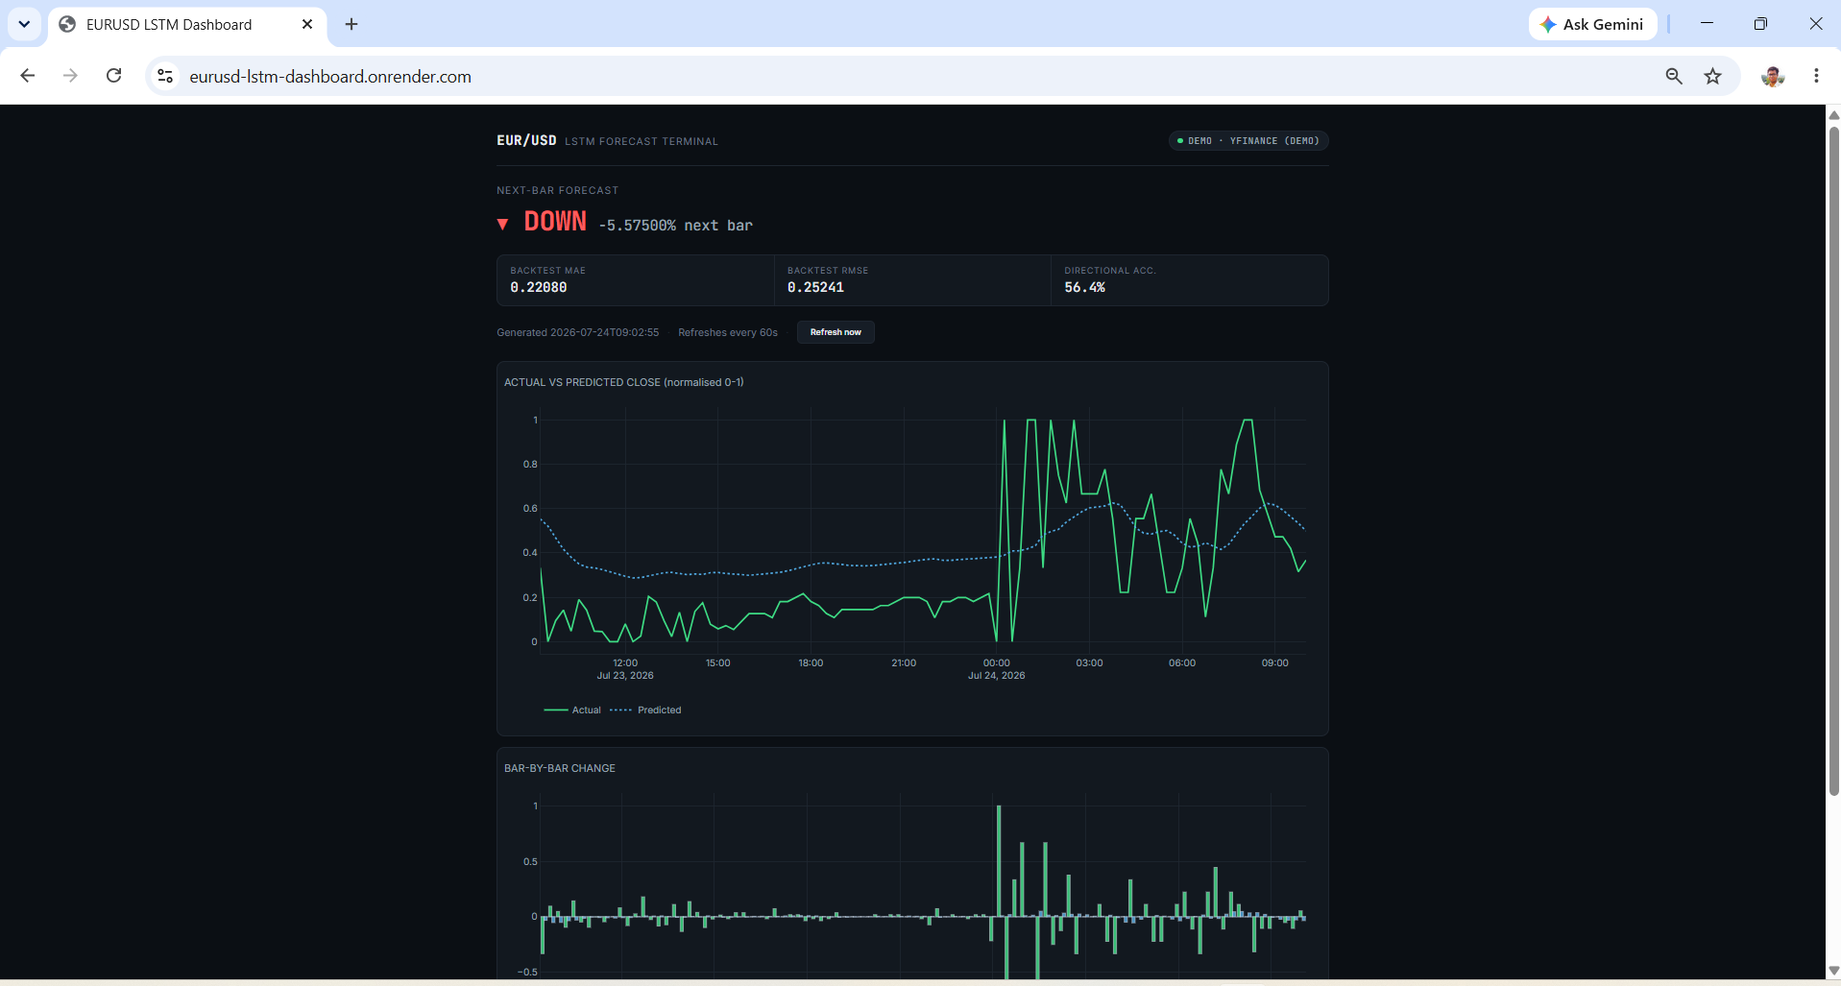
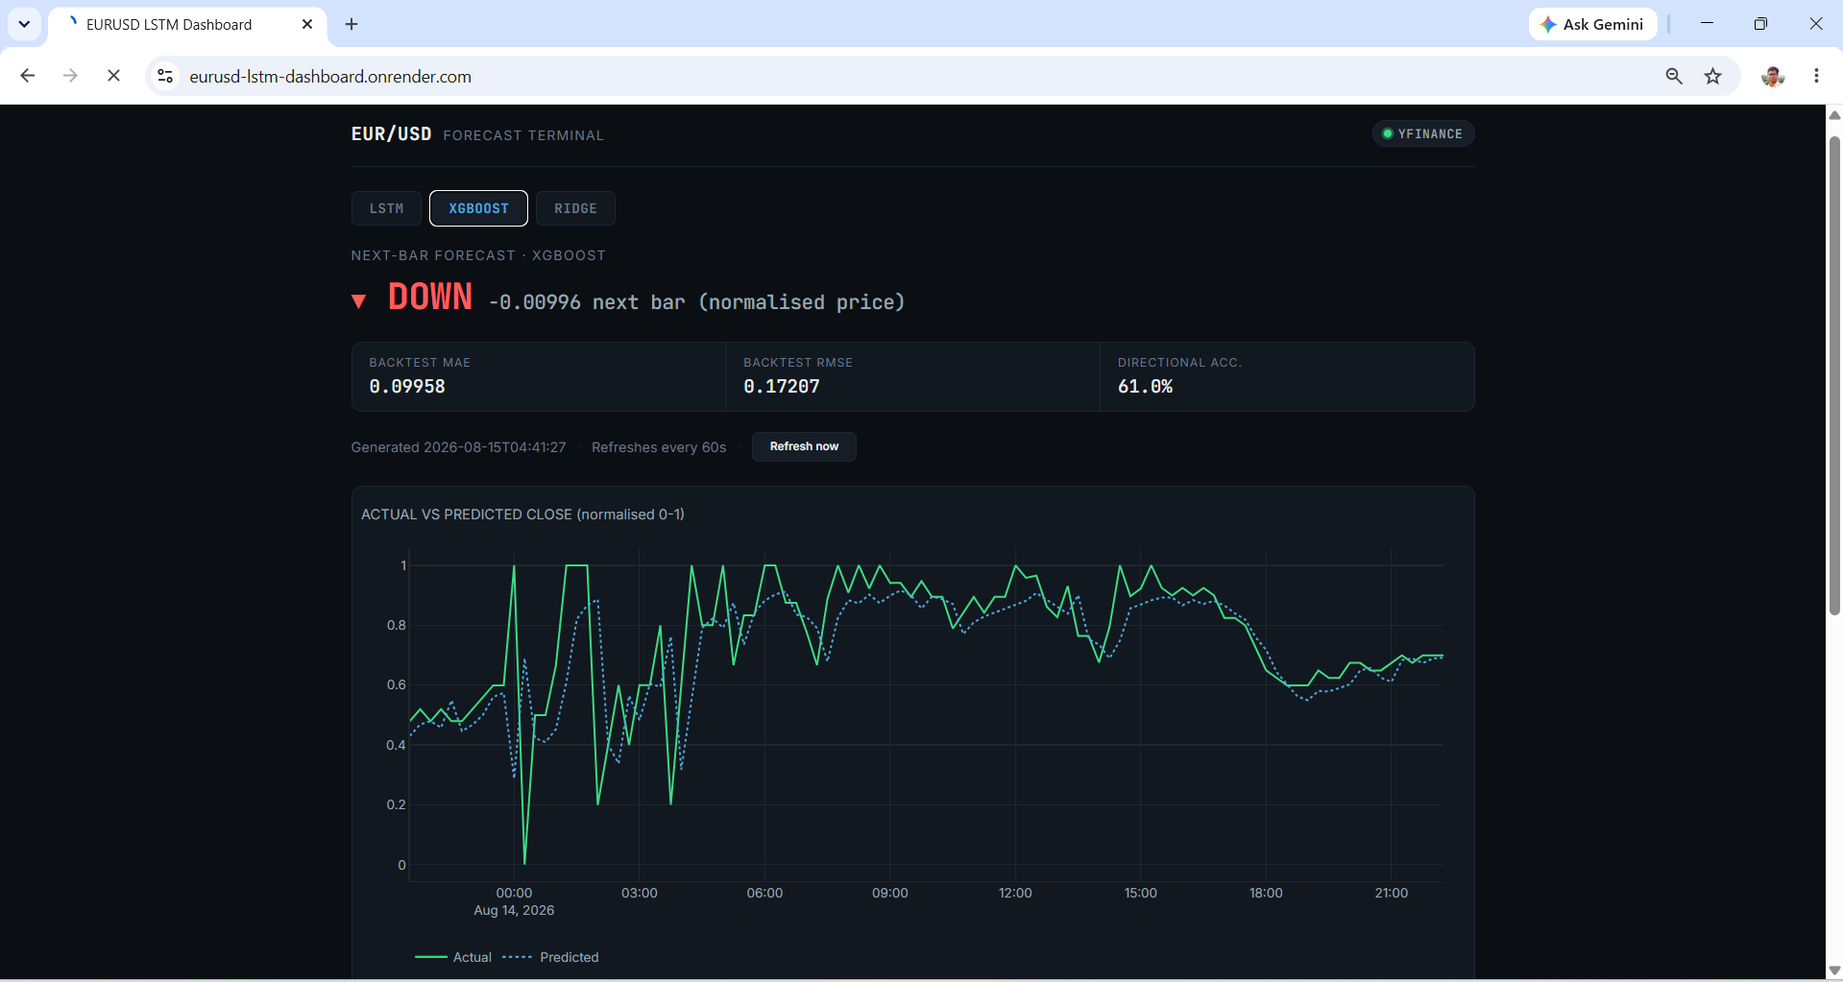
Update README with 3-model comparison

diff --git a/README.md b/README.md
@@ -1,43 +1,45 @@
-# EURUSD LSTM Market Prediction Dashboard
+# EURUSD Forecasting Dashboard — LSTM vs. XGBoost vs. Ridge Regression
 
-A forex forecasting dashboard that trains an LSTM neural network (PyTorch) on EURUSD 15-minute candles and serves live-updating predictions through a Flask + Plotly web UI.
+A forex forecasting dashboard that trains and compares three fundamentally different machine learning approaches — a recurrent neural network (LSTM), gradient-boosted trees (XGBoost), and regularized linear regression (Ridge) — on the same EUR/USD 15-minute candle data, and serves live-updating predictions from all three through a Flask + Plotly web dashboard with a model comparison toggle.
 
-**[Live demo](https://eurusd-lstm-dashboard.onrender.com)** — hosted on Render's free tier, so it sleeps after 15 minutes of inactivity and the first load can take 10-30 seconds to wake up.
+[**Live demo**](https://eurusd-lstm-dashboard.onrender.com) — hosted on Render's free tier, so it sleeps after 15 minutes of inactivity and the first load can take 10-30 seconds to wake up.
 
-![Dashboard screenshot](docs/screenshot.png)
+!\[Dashboard screenshot](docs/screenshot.png)
 
 > No broker account needed. The dashboard runs entirely on free historical data from Yahoo Finance — no login, no install, works anywhere.
 
----
+\---
 
 ## What this project demonstrates
 
-- Training a sequence model (LSTM) on real-world time-series data with a proper chronological train/validation split (no shuffling, since that would leak the future into training).
-- Evaluating the model against a naive baseline ("predict next = last observed close") rather than reporting accuracy in isolation.
-- Serving the trained model behind a Flask dashboard with background job scheduling, health checks, and Docker packaging.
-- Structuring the ML code (`lstm_core.py`) as unit-tested, reusable functions rather than a single monolithic script.
+* Comparing three genuinely different modeling approaches — a sequence-aware neural network, a non-sequential tree ensemble, and a plain linear model — on identical data, identical chronological train/validation splits, and identical evaluation functions, so the comparison is actually fair rather than apples-to-oranges.
+* Evaluating every model against a naive baseline ("predict next = last observed close") rather than reporting accuracy in isolation — a model that can't beat that baseline hasn't demonstrated it learned anything useful about price movement specifically.
+* Treating a negative or inconclusive result as worth reporting, not hiding — an earlier, more complex LSTM variant was tested and didn't outperform the simpler one, and that's documented here rather than left out.
+* Serving all three trained models behind a single Flask dashboard with background job scheduling, health checks, and Docker packaging, with each model toggle degrading gracefully if that model hasn't been trained yet rather than crashing.
+* Structuring the ML code as unit-tested, reusable functions (`lstm\_core.py`, `xgb\_core.py`, `ridge\_core.py`) instead of one monolithic script, with 28 tests covering the parts most likely to have a subtle correctness bug.
 
 ## Features
 
-- LSTM model forecasts the next 15-min normalized close price
-- Directional forecast (up/down) with backtest accuracy shown alongside it
-- Interactive Plotly charts: true vs. predicted price, and bar-by-bar point change
-- Real market data via yfinance
-- Background scheduler refreshes predictions on an interval, independent of page views
-- Dockerized, with a `render.yaml` blueprint for deployment
+* Three trained models — LSTM, XGBoost, and Ridge Regression — forecasting the next 15-min normalized close price from the same input data
+* A model comparison toggle on the dashboard: switch between all three instantly, client-side, with no page reload, since all three predictions are already computed in the background before anyone clicks anything
+* Directional forecast (up/down) with backtest MAE, RMSE, and directional accuracy shown for whichever model is selected
+* Interactive Plotly charts per model: true vs. predicted price, and bar-by-bar point change
+* Real market data via yfinance
+* Background scheduler refreshes all three models' predictions on an interval, independent of page views
+* Dockerized, with a `render.yaml` blueprint for deployment
 
 ## Tech Stack
 
-| Layer | Tech |
-|---|---|
-| Model | PyTorch (single-layer LSTM) |
-| Backend | Python / Flask + APScheduler |
-| Data | yfinance (Yahoo Finance) |
-| Frontend | Plotly (server-rendered, embedded via Jinja2) |
-| Testing | pytest |
-| Container | Docker / gunicorn |
+|Layer|Tech|
+|-|-|
+|Models|PyTorch (LSTM) · XGBoost (gradient-boosted trees) · NumPy (Ridge regression, closed-form solution, no ML library needed)|
+|Backend|Python / Flask + APScheduler|
+|Data|yfinance (Yahoo Finance)|
+|Frontend|Plotly (server-rendered, embedded via Jinja2), vanilla JS for the model toggle|
+|Testing|pytest|
+|Container|Docker / gunicorn|
 
----
+\---
 
 ## Quickstart
 
@@ -49,7 +51,7 @@ pip install -r requirements.txt
 python app.py
 ```
 
-Open **http://127.0.0.1:5001**. The first prediction runs automatically in the background within a few seconds; refresh the page or click **Refresh Now**.
+Open **http://127.0.0.1:5001**. The LSTM prediction runs automatically in the background within a few seconds; refresh the page or click **Refresh Now**. `lstm\_model.pth` ships pretrained, so this works immediately — the XGBoost and Ridge tabs will show "not trained yet" until you run their training scripts below, which is expected, not an error.
 
 ## Run with Docker
 
@@ -60,35 +62,51 @@ docker run -p 5001:5001 eurusd-dashboard
 
 Open **http://localhost:5001**.
 
----
+\---
 
 ## Training
 
-`lstm_model.pth` ships pretrained.
+Each model has its own training script, but all three share the exact same data pipeline, feature construction, and chronological train/validation split — reused directly from `train\_model.py` rather than reimplemented — so results are directly comparable.
+
+### LSTM
 
 ```bash
-python train_model.py --epochs 40 --period 60d
+python train\_model.py --epochs 40 --period 60d
 ```
 
-This fetches ~60 days of EURUSD 15-min history via yfinance (Yahoo's cap for that interval), builds sliding-window sequences, splits them chronologically (train on the earlier portion, validate on the later portion), trains the LSTM, and writes:
+Fetches \~60 days of EURUSD 15-min history via yfinance (Yahoo's cap for that interval), builds sliding-window sequences, splits them chronologically, trains the LSTM, and writes `lstm\_model.pth`, `training\_report.json`, and `loss\_curve.png`.
 
-- `lstm_model.pth` — updated weights
-- `training_report.json` — full metrics + loss history
-- `loss_curve.png` — train/validation loss plot
+### XGBoost (optional)
+
+```bash
+python train\_xgboost\_model.py --period 60d
+```
+
+Same windows as the LSTM, flattened from `(60, 5)` into a 300-length feature vector, since XGBoost has no built-in concept of sequence order. Uses XGBoost's native `Booster` API rather than the sklearn-style wrapper — `XGBRegressor.save\_model()` calls into an internal scikit-learn API that changed in scikit-learn 1.6+, breaking on any reasonably current environment across every version I tested. The native API sidesteps that entirely. Writes `xgboost\_model.json` and `xgboost\_training\_report.json`.
+
+### Ridge Regression (optional)
+
+```bash
+python train\_ridge\_model.py --period 60d
+```
+
+Same flattened windows as XGBoost, fit with a closed-form solution (no training loop, no epochs — solved directly via `np.linalg.solve`). The script searches over several regularization strengths (`alpha`) and picks whichever gives the lowest validation MAE, logging train and validation metrics at every alpha tried, not just the winner. 300 flattened features on a few thousand rows is enough to make the underlying matrix nearly singular without regularization, so the fit function explicitly checks for non-finite weights and raises a clear error rather than silently returning garbage. Writes `ridge\_model.json` and `ridge\_training\_report.json`.
+
+Both XGBoost and Ridge are optional in the sense that the dashboard works fine without them — their toggle buttons just show "not trained yet" until you run the corresponding script, and the background job logs that it's skipping them rather than failing.
 
 ## Evaluation
 
-The model is evaluated on directional accuracy (did it correctly call up vs. down?) and MAE/RMSE on the normalized close price, alongside a naive baseline. Forex at 15-minute resolution is close to a random walk, so beating the naive baseline by any real margin is a meaningful result.
+Every model is evaluated on directional accuracy (did it correctly call up vs. down?) and MAE/RMSE on the normalized close price, alongside a naive baseline. Forex at 15-minute resolution is close to a random walk, so beating the naive baseline by any real margin is a meaningful result.
 
-| Metric | LSTM | Naive baseline |
-|---|---|---|
-| Directional accuracy | 59.7% | n/a — a flat/no-change predictor never calls a direction, so this metric doesn't apply to it. The LSTM's 59.7% should be judged against 50% (random chance). |
-| MAE (normalized price) | 0.191 | 0.109 |
-| RMSE (normalized price) | 0.230 | 0.179 |
+|Metric|LSTM|XGBoost|Ridge|Naive baseline|
+|-|-|-|-|-|
+|Directional accuracy|59.7%|60.3%|*62.0%*|n/a — a flat/no-change predictor never calls a direction, so this metric doesn't apply to it. Judge every model's accuracy against 50% (random chance) instead.|
+|MAE (normalized price)|0.191|0.109|*0.124*|0.109|
+|RMSE (normalized price)|0.230|0.162|*0.185*|0.179|
 
-From a training run on ~5,600 bars of EURUSD 15-min history (July 2026). Across several training runs during development, directional accuracy ranged 57-60%, and MAE/RMSE stayed consistently above the naive baseline.
+From actual training runs on real EURUSD 15-min history. XGBoost's RMSE was the first result in this project to actually beat the naive baseline, not just tie or lose to it — its MAE ties the baseline exactly. The LSTM does not beat the naive baseline on raw regression error, which is a real and expected result for short-horizon forex (see Modeling Experiments below), though it does show a modest, reproducible edge over random chance on directional accuracy. Numbers shift somewhat between runs since yfinance only serves the trailing \~60 days at 15-min resolution, so the exact window fetched changes day to day — directional accuracy for the LSTM has ranged 57-60% across separate runs.
 
-The LSTM does not beat the naive baseline on raw regression error (MAE/RMSE) — a real and expected result for short-horizon forex (see Modeling Experiments below). It does show a modest, reproducible edge over random chance on directional accuracy, which is the more relevant metric for a directional forecast. This should be read as a research finding, not a trading edge — see Limitations.
+This should be read as a research finding, not a trading edge — see Limitations.
 
 ## Testing
 
@@ -97,71 +115,103 @@ pip install pytest
 pytest tests/ -v
 ```
 
-Covers the normalization math (including the flat-price division-by-zero edge case), feature-frame construction, and both metrics functions, using synthetic OHLC data.
+28 tests across three files. `test\_lstm\_core.py` covers the normalization math (including the flat-price division-by-zero edge case) and feature-frame construction. `test\_xgb\_core.py` covers the window-flattening logic, including a test that the flatten shape at inference time matches the shape at training time — a silent mismatch there wouldn't raise an error, it would just make predictions wrong. `test\_ridge\_core.py` includes a test that the fitted weights exactly match a hand-derived closed-form solution, which is the strongest kind of correctness check available for this model — not just "does it run," but "is the math actually right." All using synthetic OHLC data, no network access or pretrained weights required.
 
----
+\---
 
 ## Model Architecture
 
-| Parameter | Value |
-|---|---|
-| Type | Single-layer LSTM |
-| Input features | 5 (`time_token`, `norm_open`, `norm_high`, `norm_low`, `norm_close`) |
-| Hidden size | 100 |
-| Output | 1 (predicted normalized close) |
-| Sequence length | 60 bars (15 hours of M15 data) |
-| Backtest window | 100 steps |
+### LSTM
+
+|Parameter|Value|
+|-|-|
+|Type|Single-layer LSTM|
+|Input features|5 (`time\_token`, `norm\_open`, `norm\_high`, `norm\_low`, `norm\_close`)|
+|Hidden size|100|
+|Output|1 (predicted normalized close)|
+|Sequence length|60 bars (15 hours of M15 data)|
+|Backtest window|100 steps|
 
 Prices are normalized with a rolling daily min-max (expanding window, resets at midnight) so the model sees relative intraday movement rather than raw pip values. Using an expanding rather than a full-day window avoids leaking the day's future high/low into earlier predictions. A time-of-day token (seconds since midnight / 86400) is appended as a fifth feature.
 
 Training uses gradient clipping (max norm 1.0), `ReduceLROnPlateau` learning-rate scheduling, and early stopping on validation loss (patience 8 epochs, best weights restored).
 
+### XGBoost
+
+Trained on the identical 5-feature windows as the LSTM, flattened into a 300-length vector. Shallow trees (`max\_depth=4`) and early stopping against the validation set guard against overfitting — the training script explicitly logs the train/validation MAE gap as a direct check, not just the validation number in isolation.
+
+### Ridge Regression
+
+The same flattened 300-feature windows, fit with L2-regularized linear regression. No iterative training — the closed-form solution is computed once:
+
+```
+w = (XᵀX + αI)⁻¹ Xᵀy
+```
+
+with the feature matrix and target mean-centered first so the intercept isn't itself penalized. `alpha` controls how strongly large weights are discouraged; the training script searches several values and keeps whichever generalizes best to the validation set. This is the simplest model in the comparison — the point of including it is to test whether the problem needs nonlinearity at all, or whether even a straight line captures most of the learnable signal.
+
 ## Modeling Experiments
 
-A more elaborate version of this model was built and evaluated before settling on the architecture above.
+A more elaborate version of the LSTM was built and evaluated before settling on the architecture above.
 
 I expanded the 5 input features to 8, adding momentum, rolling volatility, and a cyclical sin/cos time-of-day encoding instead of a raw linear token, plus a deeper 2-layer LSTM with dropout. On identical train/validation splits, this did not outperform the simpler model — validation MAE and RMSE were both modestly worse (0.20 vs 0.164 MAE), and directional accuracy was statistically indistinguishable (56-58% across three separate training runs). While building it I also found and fixed a data-leakage bug (a feature scaler was initially fit on the full dataset instead of the training split only); fixing it barely moved the results, which confirmed the leak wasn't the cause of the underperformance — the added complexity itself just didn't help.
 
-Neither version beat the naive baseline on raw regression error. I kept the simpler architecture and documented the experiment here rather than leaving it out.
+Neither version beat the naive baseline on raw regression error. I kept the simpler LSTM architecture and documented the experiment here rather than leaving it out.
+
+Adding XGBoost as a comparison model later reframed this finding: a much simpler, non-sequential tree model slightly outperformed the LSTM on this same data, which raises the real question of whether explicit sequence-awareness is earning its added complexity here at all, or whether the 15-minute forex signal is better captured by feature interactions than by temporal order. That's a more interesting and more honest conclusion than either model's number in isolation would suggest.
 
 ## Project Structure
 
 ```
 eurusd-lstm-dashboard/
-├── app.py                      # Flask backend + background prediction scheduler
-├── lstm_core.py                # Model, data fetching, preprocessing, inference, metrics (unit-tested)
-├── LSTM_model_prediction.py    # Thin CLI wrapper around lstm_core (one-off prediction run)
-├── train_model.py              # Training script: fetch data, train, evaluate vs. baseline
-├── lstm_model.pth              # Trained model weights
+├── app.py                      # Flask backend + background scheduler + model comparison toggle
+├── lstm\_core.py                # LSTM model, data fetching, preprocessing, inference, metrics (unit-tested)
+├── xgb\_core.py                 # XGBoost inference — reuses lstm\_core's data pipeline and metrics
+├── ridge\_core.py               # Ridge regression fit/inference — closed-form, pure NumPy
+├── LSTM\_model\_prediction.py    # Thin CLI wrapper around lstm\_core (one-off prediction run)
+├── train\_model.py              # LSTM training: fetch data, train, evaluate vs. baseline
+├── train\_xgboost\_model.py      # XGBoost training: same data/split, different model
+├── train\_ridge\_model.py        # Ridge training: same data/split, alpha search
+├── lstm\_model.pth              # Trained LSTM weights
+├── xgboost\_model.json          # Trained XGBoost weights (optional — generated by train\_xgboost\_model.py)
+├── ridge\_model.json            # Trained Ridge weights (optional — generated by train\_ridge\_model.py)
 ├── requirements.txt
 ├── Dockerfile
 ├── render.yaml                 # Render deployment blueprint
 ├── tests/
-│   └── test_lstm_core.py
+│   ├── test\_lstm\_core.py
+│   ├── test\_xgb\_core.py
+│   └── test\_ridge\_core.py
 └── README.md
 ```
 
 ## Limitations
 
-- This is not a trading system. No position sizing, risk management, spread/slippage/commission modeling, or execution logic — it's a directional forecast, nothing more.
-- Predictions are on normalized prices (0-1 within each trading day), not raw pips — they aren't directly tradable numbers.
-- 15-minute forex is close to a random walk; any accuracy improvement over the naive baseline should be treated as a research result, not a signal to act on.
-- The dashboard re-runs the model on a fixed interval and shows the most recent backtest window — it does not track live P&L or compare predictions against what actually happened after the fact.
+* This is not a trading system. No position sizing, risk management, spread/slippage/commission modeling, or execution logic — every model here produces a directional forecast, nothing more.
+* Predictions are on normalized prices (0-1 within each trading day), not raw pips — they aren't directly tradable numbers.
+* 15-minute forex is close to a random walk; any accuracy improvement over the naive baseline should be treated as a research result, not a signal to act on.
+* The dashboard re-runs all three models on a fixed interval and shows the most recent backtest window — it does not track live P\&L or compare predictions against what actually happened after the fact.
+* The three models are compared on identical data and identical splits, but that comparison is still a single train/validation split on one historical window — not a statistically rigorous multi-seed, multi-period benchmark.
 
----
+\---
 
 ## Troubleshooting
 
 **`JSONDecodeError: Expecting value: line 1 column 1 (char 0)` when fetching data:** Yahoo Finance periodically changes its server-side auth/cookie handling, which breaks older yfinance versions with this exact error.
+
 ```bash
 pip install --upgrade yfinance
 ```
+
 Verify with a quick standalone check:
+
 ```bash
 python -c "import yfinance as yf; print(yf.download('EURUSD=X', period='5d', interval='15m').tail())"
 ```
 
-**Bottom chart y-axis showing absurd values like "1T" (trillion):** this was a real bug I hit in production. The normalized price sits at exactly 0 at each day's rolling low by construction, so a naive percent-change calculation divides by near-zero there and produces meaningless numbers. Fixed by switching that chart to absolute point change instead of percentage.
+**Bottom chart y-axis showing absurd values like "1T" (trillion), or the "next bar" figure showing something like +342931091785%:** both were real bugs I hit in production, same root cause. The normalized price sits at exactly 0 at each day's rolling low by construction, so any percent-change calculation dividing by a value near zero — whether that's the model's last prediction or the last actual price — can produce meaningless numbers. I didn't find a "safer" number to divide by; I removed the division entirely. Both the chart and the "next bar" figure now show absolute point change instead of a percentage.
+
+**A second model's chart renders as an empty box when using the comparison toggle:** this was a real bug from switching the toggle to a no-reload design — both models' full HTML, including their Plotly chart `<div>` elements, get rendered into the page at once (one hidden via CSS), and the chart-building code originally gave every model's charts the same fixed HTML id. Browsers only resolve the first matching id, so the second model's chart never received its data. Fixed by giving each model's charts a unique id.
 
 ## Deployment
 
@@ -169,18 +219,20 @@ python -c "import yfinance as yf; print(yf.download('EURUSD=X', period='5d', int
 
 1. Push this repo to GitHub.
 2. On [render.com](https://render.com), choose **New → Blueprint**, connect the repo — Render auto-detects `render.yaml` and builds the Dockerfile.
-3. Free-tier web services spin down after 15 minutes idle; the first request afterward takes ~10-30s to wake up.
+3. Free-tier web services spin down after 15 minutes idle; the first request afterward takes \~10-30s to wake up.
+4. `xgboost\_model.json` and `ridge\_model.json` are optional — the Dockerfile copies whatever's present without failing the build if they're missing, so a fresh deploy works fine even before you've trained the comparison models.
 
 ### Hugging Face Spaces
 
 1. Create a new Space, SDK = Docker.
 2. Push this repo's contents to the Space's git remote.
 3. HF Spaces reads the `Dockerfile` directly — add this to the top of the Space's own README:
-   ```yaml
+
+```yaml
    ---
-   title: EURUSD LSTM Dashboard
+   title: EURUSD Forecasting Dashboard
    sdk: docker
-   app_port: 5001
+   app\_port: 5001
    ---
    ```
 
@@ -191,8 +243,9 @@ docker build -t eurusd-dashboard .
 docker run -p 5001:5001 -e PORT=5001 eurusd-dashboard
 ```
 
----
+\---
 
 ## Disclaimer
 
 This project is for educational and portfolio purposes only. It is not financial advice and should not be used for real trading decisions.
+
